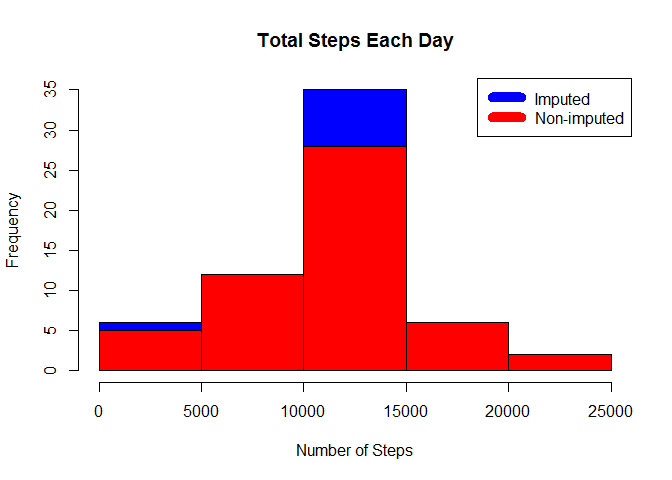
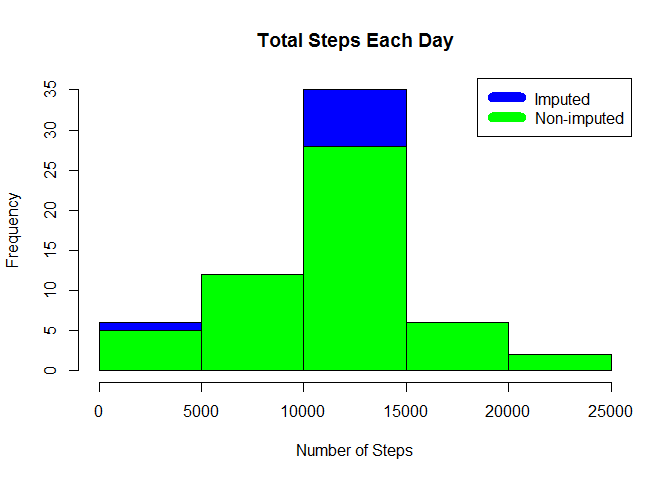
Final Commit

Changed region(s): [[0.125, 0.2812, 0.9062, 0.7812], [0.7188, 0.2188, 0.7812, 0.2812]]

diff --git a/PA1_template.html b/PA1_template.html
@@ -162,9 +162,9 @@ imputed_data &lt;- transform(data, steps = ifelse(is.na(data$steps), steps_by_in
 hist(steps_by_day_i$steps, main = paste(&quot;Total Steps Each Day&quot;), col=&quot;blue&quot;, xlab=&quot;Number of Steps&quot;)
 
 #Create Histogram to show difference. 
-hist(steps_by_day$steps, main = paste(&quot;Total Steps Each Day&quot;), col=&quot;red&quot;, xlab=&quot;Number of Steps&quot;, add=T)
-legend(&quot;topright&quot;, c(&quot;Imputed&quot;, &quot;Non-imputed&quot;), col=c(&quot;blue&quot;, &quot;red&quot;), lwd=10)</code></pre>
[1 lines of base64/hex data omitted]
+hist(steps_by_day$steps, main = paste(&quot;Total Steps Each Day&quot;), col=&quot;green&quot;, xlab=&quot;Number of Steps&quot;, add=T)
+legend(&quot;topright&quot;, c(&quot;Imputed&quot;, &quot;Non-imputed&quot;), col=c(&quot;blue&quot;, &quot;green&quot;), lwd=10)</code></pre>
[1 lines of base64/hex data omitted]
 <p>Calculate new mean and median for imputed data.</p>
 <pre class="r"><code>rmean.i &lt;- mean(steps_by_day_i$steps)
 rmedian.i &lt;- median(steps_by_day_i$steps)</code></pre>
@@ -178,7 +178,7 @@ med_diff &lt;- rmedian.i - rmedian</code></pre>
 <li>The imputed data median is 1.076618910^{4}</li>
 <li>The difference between the non-imputed mean and imputed mean is -176.4948964</li>
 <li>The difference between the non-imputed mean and imputed mean is 1.1886792</li>
-<li>The difference between total number of steps between imputed and non-imputed data is 7.536332110^{4}. Thus, there were 7.536332110^{4} more steps in the imputed data.</li>
+<li>The difference between total number of steps between imputed and non-imputed data is 7.536332110^{4}. As such, there were 7.536332110^{4} more steps in the imputed data.</li>
 </ul>
 </div>
 <div id="are-there-differences-in-activity-patterns-between-weekdays-and-weekends" class="section level2">

diff --git a/PA1_template.md b/PA1_template.md
@@ -76,8 +76,8 @@ steps_by_day_i <- aggregate(steps ~ date, imputed_data, sum)
 hist(steps_by_day_i$steps, main = paste("Total Steps Each Day"), col="blue", xlab="Number of Steps")
 
 #Create Histogram to show difference. 
-hist(steps_by_day$steps, main = paste("Total Steps Each Day"), col="red", xlab="Number of Steps", add=T)
-legend("topright", c("Imputed", "Non-imputed"), col=c("blue", "red"), lwd=10)
+hist(steps_by_day$steps, main = paste("Total Steps Each Day"), col="green", xlab="Number of Steps", add=T)
+legend("topright", c("Imputed", "Non-imputed"), col=c("blue", "green"), lwd=10)
 ```
 
 ![](PA1_template_files/figure-html/unnamed-chunk-6-1.png)<!-- -->
@@ -105,7 +105,7 @@ total_diff <- sum(steps_by_day_i$steps) - sum(steps_by_day$steps)
 * The imputed data median is 1.0766189\times 10^{4}
 * The difference between the non-imputed mean and imputed mean is -176.4948964
 * The difference between the non-imputed mean and imputed mean is 1.1886792
-* The difference between total number of steps between imputed and non-imputed data is 7.5363321\times 10^{4}. Thus, there were 7.5363321\times 10^{4} more steps in the imputed data.
+* The difference between total number of steps between imputed and non-imputed data is 7.5363321\times 10^{4}. As such, there were 7.5363321\times 10^{4} more steps in the imputed data.
 
 
 ## Are there differences in activity patterns between weekdays and weekends?
